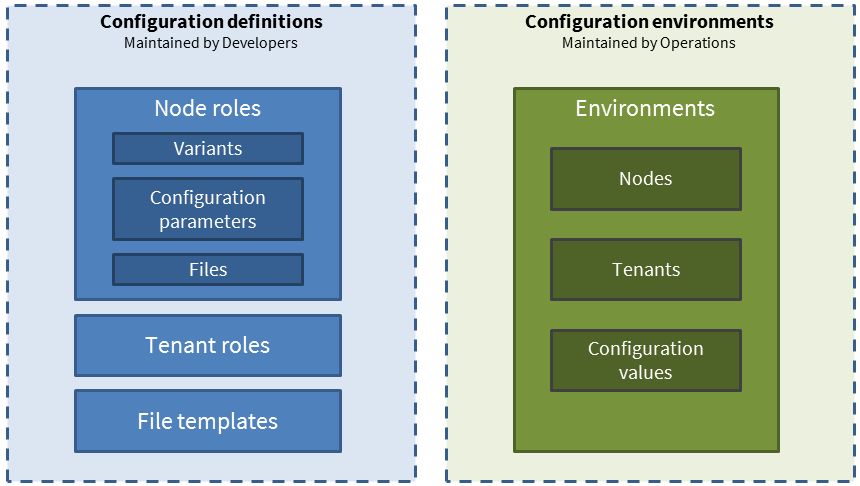
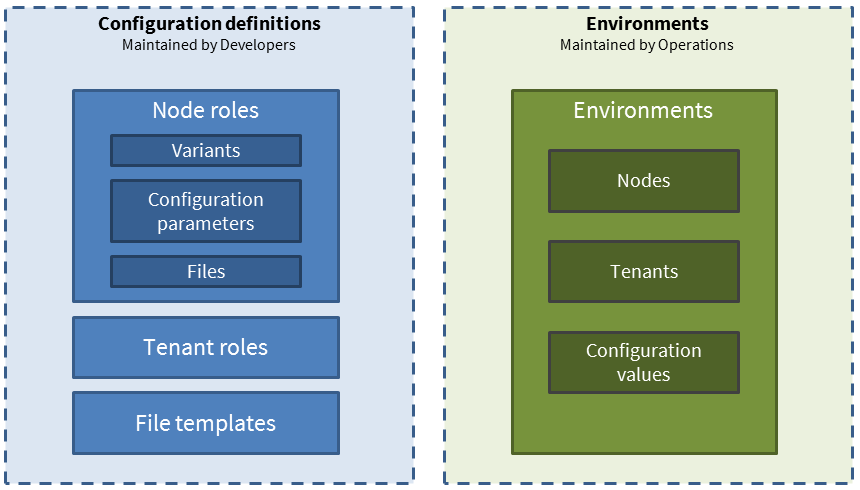
update docs

diff --git a/src/site/markdown/general-concepts.md b/src/site/markdown/general-concepts.md
@@ -38,23 +38,34 @@ Additionally it is possible to copy/download files from external sources and inc
 
 ![Configuration meta model](images/configuration-meta-model.png)
 
-#### Configuration definitions
-
-* **Node role**: A set of functionality/application part that can be deployed to a node/machine, e.g. "AEM CMS", "AEM Dispatcher", "Tomcat Service Layer"
-    * **Variant**: Variants of a role with same deployment artifacts but different configuration; e.g. "Author", "Publish", "Importer".
-    * **Configuration parameter**: Definition of configuration parameters for that operation can define configuration values that are inserted into the file templates when generating the configuration.
-    * **File**: Defines file to be generated for Role/Variant based on a File Template
-* **Tenant role**: Allows to define features required for a tenant, e.g. Tenant Website with or without special features
-* **File template**: Script-based template the contains static configuration parts and placeholders for configuration values defined by operations
-
-#### Configuration environments
+#### Environments
 
 * **Environment**: Environment for a specific project or group of projects with a selection of nodes that work together, e.g. "QS", "Prelive", "Prod" etc.
 * **Node**: A system to deploy to, e.g. a physical machine, virtual machine, Docker container or any other deployment target.
     * For each node multiple roles can be assigned; for each role one variant
-* **Tenant**: A tenant needs a special subset of system configuration parameters, e.g. an own virtual host definition with the tenants public domain name in the Apache webserver
-    * For each tenant multiple roles can be assigned
+* **Tenant**: List of tenants in the environment and their configuration
+    * For each tenant multiple tenant roles can be assigned
 * **Configuration value**: Configuration value for a configuration parameter in context of environments, nodes, roles and tenants.
+
+#### Configuration definitions
+
+* **Node role**: A set of functionality/application part that can be deployed to a node/machine, e.g. "AEM CMS", "AEM Dispatcher", "Tomcat Service Layer"
+    * **Variant**: Variants of a role with same deployment artifacts but different configuration; e.g. "Author", "Publish", "Importer".
+    * **Configuration parameter**: Definition of configuration parameters that can be set for each environment. The configuration parameter values are merged with the file templates when generating the configuration.
+    * **File**: Defines file to be generated for Role/Variant based on a File Template
+* **Tenant role**: Allows to define features required for a tenant, e.g. Tenant Website with or without special features
+* **File template**: Script-based template the contains static configuration parts and placeholders for the configuration parameter values
+
+#### Multitenancy
+
+* Often a single infrastructure environment is used to host applications and websites for multiple tenants (e.g. for multiple markets or different brands)
+* Most of this multi-tenancy aspects are managed outside the system configuration (e.g. in content hierarchy and content pages, context-aware configuration in repository)
+* But in some occasions the system configuration is affected as well, e.g.
+    * One vhost file for each tenant's website in the webserver configuration
+    * Short URL Mapping in Dispatcher and AEM for each website
+* To support this tenants may be defined in each environment, and it is possible to override some of the configuration parameters with tenant-specific values
+* Using the “Tenant Multiply” plugin it is possible to generate multiple configuration files (one per tenant) based on a single file template.
+* Tenants are independent from roles and role variants from the configuration definition. Tenant roles are specific to tenants and allow to express different characteristics of tenants e.g. with our without a specific feature-set.
 
 
 ### Technology stack
